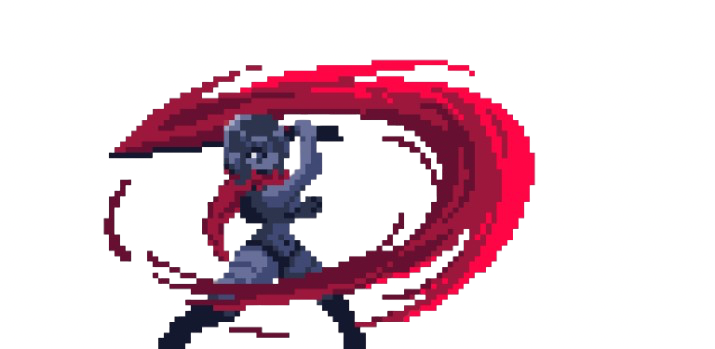
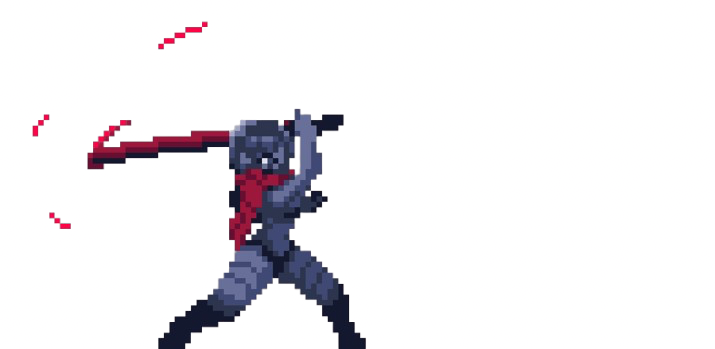
Update04

diff --git a/entities.js b/entities.js
@@ -79,51 +79,51 @@ class Player extends Entity {
         this.respawnTimer = 0;
 
         this.skills = [
-            { 
-                id: 'spirit_spear', name: 'Spirit Spear', type: 'projectile', 
+            {
+                id: 'spirit_spear', name: 'Spirit Spear', type: 'projectile',
                 rarity: 'uncommon', category: 'Active',
-                damageMult: 2.8, mpCost: 22, cooldown: 11, timer: 0, 
+                damageMult: 2.8, mpCost: 22, cooldown: 11, timer: 0,
                 level: 2, active: true,
                 desc: "Summons a Spear of Souls and throws it at the target, dealing 280% damage and converts part of the damage dealt to heal you.",
-                icon: '🏹' 
+                icon: '🏹'
             },
-            { 
-                id: 'liston_cutoff', name: 'Liston: Cut Off', type: 'aoe', 
+            {
+                id: 'liston_cutoff', name: 'Liston: Cut Off', type: 'aoe',
                 rarity: 'uncommon', category: 'Active', // FIX: Change to Active so it shows on HUD
-                damageMult: 2.3, mpCost: 15, cooldown: 12, timer: 0, 
+                damageMult: 2.3, mpCost: 15, cooldown: 12, timer: 0,
                 level: 2, active: true,
                 desc: "Summons a fragment of Specter Liston to perform a spinning attack that deals 230% damage to nearby enemies.",
                 icon: '⚔'
             },
-            { 
-                id: 'cannibal_devour', name: 'Cannibal: Devour', type: 'buff', 
+            {
+                id: 'cannibal_devour', name: 'Cannibal: Devour', type: 'buff',
                 rarity: 'rare', category: 'Active',
-                damageMult: 1.5, mpCost: 45, cooldown: 15, timer: 0, 
+                damageMult: 1.5, mpCost: 45, cooldown: 15, timer: 0,
                 level: 2, active: true,
                 desc: "Consumes a portion of the enemy's essence, instantly healing you and increasing power.",
                 icon: '🦷'
             },
-            { 
-                id: 'soul_walker', name: 'Soul Walker', type: 'passive', 
+            {
+                id: 'soul_walker', name: 'Soul Walker', type: 'passive',
                 rarity: 'uncommon', category: 'Passive',
-                damageMult: 0, mpCost: 0, cooldown: 0, timer: 0, 
+                damageMult: 0, mpCost: 0, cooldown: 0, timer: 0,
                 level: 2, active: true,
                 desc: "The longer the battle continues, the more you resonate with the Specter, increasing Movement Speed by 7%.",
                 icon: '👻',
                 stats: { moveSpeed: 7 }
             },
-            { 
-                id: 'phantom_rage', name: 'Phantom Rage', type: 'buff', 
+            {
+                id: 'phantom_rage', name: 'Phantom Rage', type: 'buff',
                 rarity: 'rare', category: 'Passive',
-                damageMult: 0, mpCost: 0, cooldown: 0, timer: 0, 
+                damageMult: 0, mpCost: 0, cooldown: 0, timer: 0,
                 level: 2, active: true,
                 desc: "Increases Attack Speed and Critical Rate as your HP decreases.",
                 icon: '💢'
             },
-            { 
-                id: 'lightning_bullet', name: 'Lightning Bullet', type: 'projectile', 
+            {
+                id: 'lightning_bullet', name: 'Lightning Bullet', type: 'projectile',
                 rarity: 'epic', category: 'Active',
-                damageMult: 3.5, mpCost: 60, cooldown: 8, timer: 0, 
+                damageMult: 3.5, mpCost: 60, cooldown: 8, timer: 0,
                 level: 1, active: true,
                 desc: "Fires a concentrated bolt of lightning that chains to nearby enemies.",
                 icon: '⚡'
@@ -139,7 +139,7 @@ class Player extends Entity {
         this.animations = {
             idle: { frames: this.loadFrames('assets/idle', 'idle', 10), speed: 0.12 },
             run: { frames: this.loadFrames('assets/run', 'run', 8), speed: 0.08 },
-            attack: { frames: this.loadFrames('assets/attack', 'atk', 18), speed: 0.03 }
+            attack: { frames: this.loadFrames('assets/attack', 'atk', 9), speed: 0.03 }
         };
     }
 
@@ -157,6 +157,19 @@ class Player extends Entity {
         this.stats.attack = this.level * 10;
         this.stats.maxHp = 1000 + ((this.level - 1) * 150);
         this.maxMp = 200 + ((this.level - 1) * 20);
+
+        const lvlMult = Math.pow(1.015, this.level - 1);
+        for (const key in this.stats) {
+            if (key !== 'attack' && key !== 'maxHp' && key !== 'moveSpeed' && key !== 'maxQuests' && key !== 'maxDailyCorps') {
+                if (typeof this.stats[key] === 'number') {
+                    if (this.stats[key] === 0) {
+                        this.stats[key] = Math.floor((this.level - 1) * 0.5); // Provide a tiny flat boost for zero-base stats
+                    } else {
+                        this.stats[key] = Math.floor(this.stats[key] * lvlMult);
+                    }
+                }
+            }
+        }
 
         Object.values(this.equipment).forEach(item => {
             if (item && item.stats) {
@@ -187,7 +200,7 @@ class Player extends Entity {
         // Max CDR: 60%
         this.stats.cdReduction = Math.min(this.stats.cdReduction, 60);
         // Max Attack Speed: 0.1s cooldown (Lower is faster)
-        this.attackCooldown = Math.max(0.1, 0.4 - (this.stats.cdReduction / 200)); 
+        this.attackCooldown = Math.max(0.1, 0.4 - (this.stats.cdReduction / 200));
         // Max Critical Rate: 80%
         this.stats.critRate = Math.min(this.stats.critRate || 0, 80);
 
@@ -239,10 +252,10 @@ class Player extends Entity {
         this.skills.forEach(s => { if (s.timer > 0) s.timer -= dt; });
 
         this.handleMovement(dt, enemies);
-        
+
         // Ensure dead targets are dropped before combat logic
         if (this.target && this.target.isDead) this.target = null;
-        
+
         this.handleCombat(enemies);
         this.handleAnimation(dt);
     }
@@ -303,10 +316,10 @@ class Player extends Entity {
         // Auto-Cast Skills (Sequential Turn-Taking Logic)
         if ((this.autoAttack || this.autoQuest) && typeof Game !== 'undefined') {
             // Find ALL available skills first
-            const availableSkills = this.skills.filter(skill => 
-                skill.active && 
-                skill.category === 'Active' && 
-                skill.timer <= 0 && 
+            const availableSkills = this.skills.filter(skill =>
+                skill.active &&
+                skill.category === 'Active' &&
+                skill.timer <= 0 &&
                 this.mp >= skill.mpCost
             );
 

diff --git a/ui.js b/ui.js
@@ -280,12 +280,11 @@ const UI = {
             slot.setAttribute('role', 'button');
             slot.setAttribute('tabindex', '0');
             
-            const img = document.createElement('img');
-            img.src = item.icon || 'assets/skill_attack.png';
-            img.alt = item.name;
-            img.onerror = () => img.style.display = 'none';
+            slot.innerHTML = `<div class="item-icon-text">${item.icon || item.name[0]}</div>`;
+            if (item.stackable && item.count > 1) {
+                slot.innerHTML += `<div class="count">${item.count}</div>`;
+            }
             
-            slot.appendChild(img);
             slot.onclick = () => this.handleItemClick(item);
             
             fragment.appendChild(slot);
@@ -297,18 +296,20 @@ const UI = {
         // Update Equipment Slots
         let equipAtk = 0;
         let equipDef = 0;
+        const defaultIcons = { head: '🪖', armor: '🛡', hands: '🧤', legs: '👖', cape: '🦹', amulet: '📿', ring1: '💍', ring2: '💍' };
         Object.keys(player.equipment).forEach(slotName => {
             const el = document.querySelector(`.eq-slot[data-slot="${slotName}"]`);
             const item = player.equipment[slotName];
             if (el) {
                 el.className = `eq-slot ${item ? 'rarity-' + item.rarity : ''} slot-icon`;
-                el.innerHTML = item ? `<div class="item-icon-text">${item.icon || item.name[0]}</div>` : '';
                 if (item) {
+                    el.innerHTML = `<div class="item-icon-text">${item.icon || item.name[0]}</div>`;
                     equipAtk += (item.stats.attack || 0);
                     equipDef += (item.stats.defense || 0);
                     el.onclick = () => this.showItemDetails(item);
                     el.oncontextmenu = (e) => e.preventDefault();
                 } else {
+                    el.innerHTML = `<div class="item-icon-text" style="opacity: 0.3;">${defaultIcons[slotName] || '❓'}</div>`;
                     el.onclick = null;
                     el.oncontextmenu = null;
                 }
@@ -320,7 +321,36 @@ const UI = {
         if (cpEl) cpEl.innerText = this.formatNumber(cp);
 
         const gearSummary = document.getElementById('gear-summary-stats');
-        if (gearSummary) gearSummary.innerHTML = `<span style="color:#e74c3c">⚔ +${equipAtk}</span> &nbsp;|&nbsp; <span style="color:#3498db">🛡 +${equipDef}</span>`;
+        if (gearSummary) {
+            let equipStats = {};
+            Object.values(player.equipment).forEach(item => {
+                if (item && item.stats) {
+                    for (let key in item.stats) {
+                        equipStats[key] = (equipStats[key] || 0) + item.stats[key];
+                    }
+                }
+            });
+
+            let summaryHTML = `<div style="display:flex; flex-wrap:wrap; justify-content:center; gap:8px; font-size:12px; margin-top:5px;">`;
+            const statIcons = {
+                attack: '⚔', defense: '🛡', maxHp: '❤', critRate: '💥', moveSpeed: '👟', 
+                atkSpeed: '⚡', evade: '💨', hpRecovery: '💖'
+            };
+            let hasStats = false;
+            for (let key in equipStats) {
+                if (equipStats[key] > 0) {
+                    hasStats = true;
+                    const icon = statIcons[key] || '✨';
+                    const displayKey = key.replace(/([A-Z])/g, ' $1').replace(/^./, str => str.toUpperCase());
+                    summaryHTML += `<span style="color:#a8e6cf">${icon} ${displayKey}: +${equipStats[key]}</span>`;
+                }
+            }
+            if (!hasStats) {
+                summaryHTML += `<span style="color:#888;">No Gear Stats</span>`;
+            }
+            summaryHTML += `</div>`;
+            gearSummary.innerHTML = summaryHTML;
+        }
 
         this.updateStatsModal(player, cp, equipAtk, equipDef);
     },

diff --git a/style.css b/style.css
@@ -84,8 +84,8 @@ html, body {
 /* --- 4. TOP-LEFT HUD (Player Stats) --- */
 #player-hud {
     position: absolute;
-    top: 10px;
-    left: 10px;
+    top: calc(env(safe-area-inset-top, 0px) + 10px);
+    left: calc(env(safe-area-inset-left, 0px) + 10px);
     display: flex;
     align-items: flex-start;
     gap: 10px;
@@ -182,8 +182,8 @@ html, body {
 /* --- 5. TOP-RIGHT HUD (Minimap & Quests) --- */
 #right-hud {
     position: absolute;
-    top: 10px;
-    right: 10px;
+    top: calc(env(safe-area-inset-top, 0px) + 10px);
+    right: calc(env(safe-area-inset-right, 0px) + 10px);
     z-index: var(--z-hud);
     pointer-events: none;
     text-align: right;
@@ -274,8 +274,8 @@ html, body {
 /* --- 6. CONTROLS (Joystick & Action Bar) --- */
 #joystick-base {
     position: absolute;
-    bottom: 30px;
-    left: 30px;
+    bottom: calc(env(safe-area-inset-bottom, 0px) + 30px);
+    left: calc(env(safe-area-inset-left, 0px) + 30px);
     width: 130px;
     height: 130px;
     background: radial-gradient(circle, rgba(50,50,50,0.6) 0%, rgba(10,10,10,0.8) 100%);
@@ -302,8 +302,8 @@ html, body {
 
 #action-bar {
     position: absolute;
-    bottom: 20px;
-    right: 20px;
+    bottom: calc(env(safe-area-inset-bottom, 0px) + 20px);
+    right: calc(env(safe-area-inset-right, 0px) + 20px);
     display: flex;
     gap: 10px;
     z-index: var(--z-hud);
@@ -411,7 +411,7 @@ html, body {
 /* --- 7. BOTTOM EXP BAR --- */
 #exp-bar-container {
     position: absolute;
-    bottom: 0;
+    bottom: env(safe-area-inset-bottom, 0px);
     left: 0;
     width: 100%;
     height: 6px; /* Slightly thicker for better visibility */

diff --git a/index.html b/index.html
@@ -89,7 +89,7 @@
         </section>
 
         <!-- HUD: Gold Display (True Centered) -->
-        <div id="top-gold-display" style="position: absolute; top: 15px; left: 50%; transform: translateX(-50%); background: rgba(0,0,0,0.6); padding: 5px 20px; border-radius: 20px; border: 1px solid var(--color-gold); color: var(--color-gold-glow); font-weight: 800; font-size: 16px; z-index: 100; display: flex; align-items: center; gap: 10px; box-shadow: 0 0 20px rgba(184, 153, 71, 0.4); backdrop-filter: blur(8px); pointer-events: none;">
+        <div id="top-gold-display" style="position: absolute; top: calc(env(safe-area-inset-top, 0px) + 15px); left: 50%; transform: translateX(-50%); background: rgba(0,0,0,0.6); padding: 5px 20px; border-radius: 20px; border: 1px solid var(--color-gold); color: var(--color-gold-glow); font-weight: 800; font-size: 16px; z-index: 100; display: flex; align-items: center; gap: 10px; box-shadow: 0 0 20px rgba(184, 153, 71, 0.4); backdrop-filter: blur(8px); pointer-events: none;">
             <span style="font-size: 18px;">💰</span> <span id="main-gold-count">0</span>
         </div>
 

diff --git a/sw.js b/sw.js
@@ -1,4 +1,4 @@
-const CACHE_NAME = 'raged-v0.1.0';
+const CACHE_NAME = 'raged-v0.1.2';
 const ASSETS_TO_CACHE = [
   './',
   './index.html',
